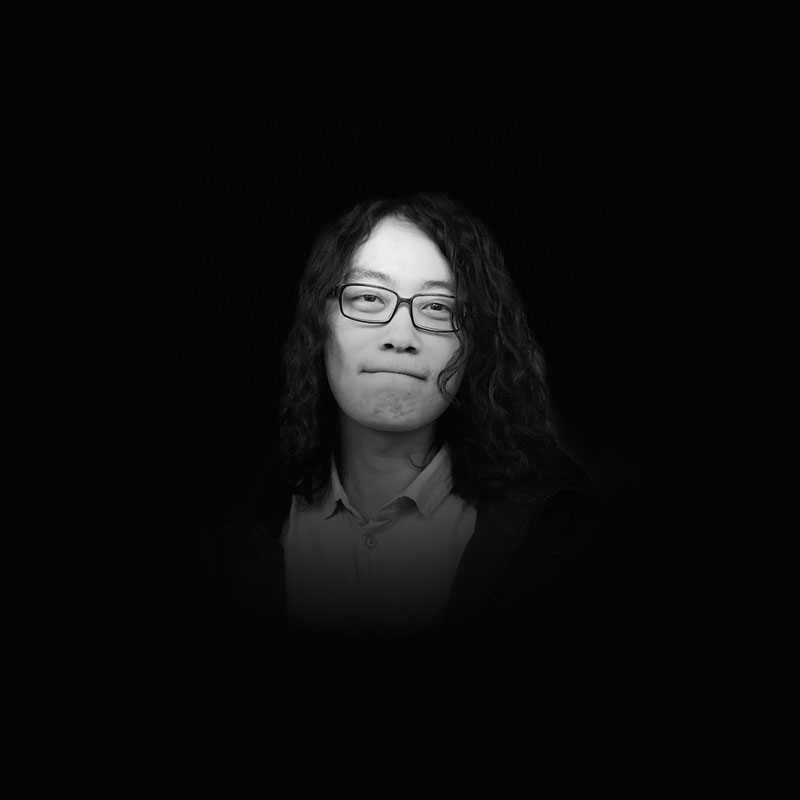
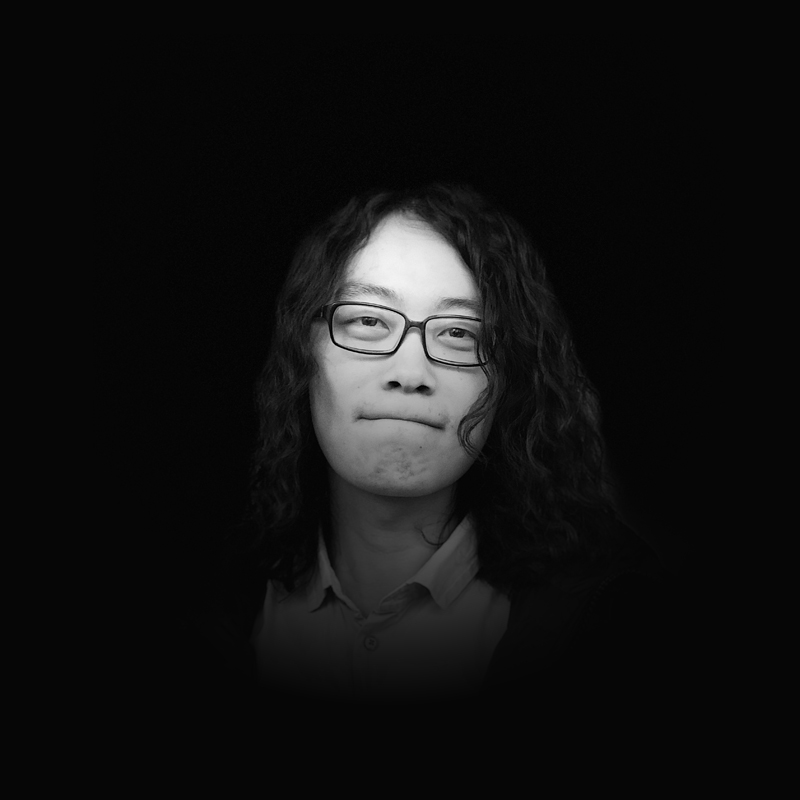
adjusted photos

diff --git a/index.html b/index.html
@@ -140,7 +140,7 @@
   #about .musician:hover { color: white; }
   #about .musician > h3 { font-size: 6vw; margin: 40vh 0 0.25em; }
   #about .musician > p { font-size: 3vw; margin: 0 0 0.25em; }
-  #about .musician .bg { position: absolute; z-index: -1; width: 100%; height: 100vh; max-height: 80vw; top: 0; left: 0; background-repeat: no-repeat; background-position: center center; background-size: cover; }
+  #about .musician .bg { position: absolute; z-index: -1; width: 100%; height: 100%; max-height: 80vw; top: 0; left: 0; background-repeat: no-repeat; background-position: center center; background-size: cover; }
 </style>
 
 <style id="about-style-responsive">
